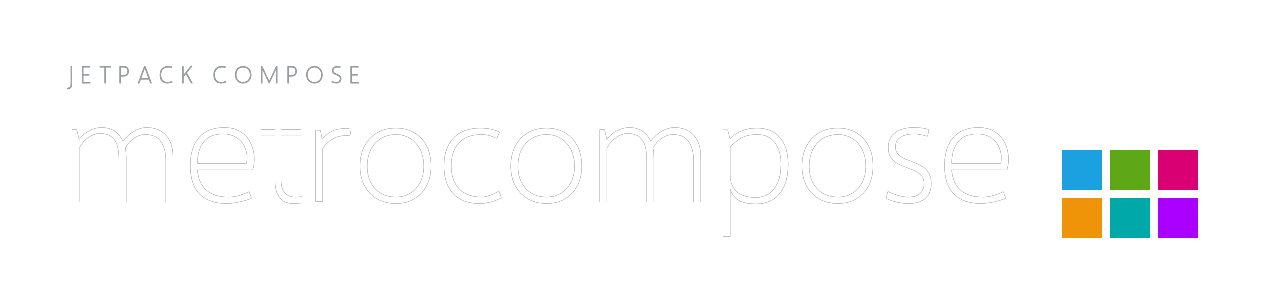
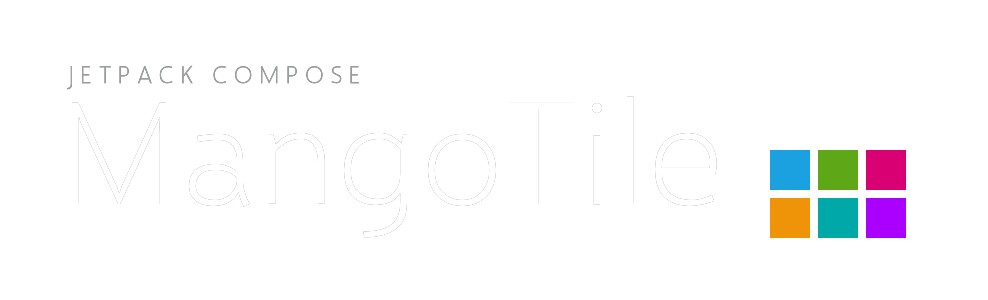
Rename the kit to MangoTile
MetroCompose collided with louis993546/Metro-Compose, a Jetpack Compose WP8
kit that has been going since 2021. The product, the repository and the
captions move; the artifact, the Kotlin package and the Metro* symbols stay.
"Metro" there is the design language's vocabulary rather than the brand —
MetroPanorama means a panorama in the Metro style — and the coordinates are
already on Central, where nothing can be withdrawn. README says so explicitly
so it reads as a decision.

Banners redrawn rather than replaced: the JETPACK COMPOSE overline and the
tile grid are copied pixel-for-pixel out of the originals and only the
wordmark is new, set in Selawik Light at 144pt with 3.45px of tracking on a
y=204 baseline, all three matched against the old ink box. The canvas narrows
1280 -> 988 because the shorter word would otherwise leave 346px of hole
before the tiles; every margin and the gap to the grid are unchanged.

Also drops the README's claim that nothing else on Android does this. It was
no longer true, and what the work actually is — the motion — says more.

diff --git a/README.md b/README.md
@@ -1,7 +1,7 @@
 <h1>
   <picture>
     <source media="(prefers-color-scheme: dark)" srcset="docs/banner-dark.png">
-    <img src="docs/banner-light.png" alt="MetroCompose" width="820">
+    <img src="docs/banner-light.png" alt="MangoTile" width="820">
   </picture>
 </h1>
 
@@ -12,14 +12,22 @@ the panorama, the pivot, the long list with its jump grid, the flat typography, 
 transitions that made WP8 feel like WP8 — so you can assemble a whole app in that style instead of
 rebuilding the look from scratch every time.
 
-WP8's design language still has people who miss it, but on Android nobody ported the *app-building*
-side of it. There are launchers that imitate the home screen and a few dead widget snippets, and no
-kit that hands you a `MetroPanorama { }` and gives you the parallax and the flowing title for free.
-That is the gap this fills.
+WP8's design language still has people who miss it, and what they miss is rarely the colours — it
+is the way the thing moved. That is where most of the work here went. The panorama has three real
+parallax layers: background, title and content each travel at their own speed as you drag, and
+letting go settles on a section boundary rather than wherever your finger stopped. Continuum
+carries a title out of a list row into the next page's big header, and flows it back on Back. The
+swap leaves a line **empty** for a beat before refilling it — not a cross-fade, because the empty
+beat is what makes it read as words being replaced rather than blurring into each other. The
+easings are measured off a Lumia doing it, not guessed at.
 
 [![Maven Central](https://img.shields.io/maven-central/v/io.github.diffechento/metro?label=Maven%20Central)](https://central.sonatype.com/artifact/io.github.diffechento/metro)
 
 `io.github.diffechento:metro:1.0.0` · minSdk 26 · compileSdk 36 · MIT
+
+MangoTile is the kit; `Metro` is the vocabulary of the design language it implements. So the
+artifact, the package and every symbol keep that name — `MetroPanorama` means *a panorama in the
+Metro style*, and renaming it to match the brand would say less, not more.
 
 | Start | now playing | panorama ∞ |
 |:---:|:---:|:---:|
@@ -117,5 +125,5 @@ be called Selawik. The full text is in
 [THIRD-PARTY-NOTICES.md](THIRD-PARTY-NOTICES.md) has the details along with the dependencies.
 
 
-MetroCompose is not affiliated with Microsoft. "Windows Phone", "Metro" and "Segoe" are
+MangoTile is not affiliated with Microsoft. "Windows Phone", "Metro" and "Segoe" are
 Microsoft's; this is an homage to a design language, built from scratch.

diff --git a/THIRD-PARTY-NOTICES.md b/THIRD-PARTY-NOTICES.md
@@ -1,13 +1,13 @@
 # Third-party notices
 
-MetroCompose itself is under the MIT licence — see [LICENSE](LICENSE). The material below belongs
+MangoTile itself is under the MIT licence — see [LICENSE](LICENSE). The material below belongs
 to other people and keeps its own terms.
 
 ## Bundled fonts — Selawik
 
 This library bundles the Selawik typeface in three weights, as
 `metro/src/main/res/font/selawik_light.ttf`, `selawik_semilight.ttf` and `selawik_regular.ttf`.
-Anything built on MetroCompose therefore ships these fonts too.
+Anything built on MangoTile therefore ships these fonts too.
 
 > Copyright 2015, Microsoft Corporation (www.microsoft.com), with Reserved Font Name Selawik.
 > All Rights Reserved. Selawik is a trademark of Microsoft Corporation in the United States
@@ -40,5 +40,5 @@ so an MIT library over an Apache-2.0 stack is unremarkable.
 
 ## Trademarks
 
-MetroCompose is not affiliated with Microsoft. "Windows Phone", "Metro" and "Segoe" are
+MangoTile is not affiliated with Microsoft. "Windows Phone", "Metro" and "Segoe" are
 Microsoft's. This project is an homage to a design language, written from scratch.

diff --git a/COMPONENTS.md b/COMPONENTS.md
@@ -1,4 +1,4 @@
-# MetroCompose components
+# MangoTile components
 
 Everything the library gives you, grouped by what it is for. `io.github.diffechento:metro:1.0.0`; see
 the [README](README.md) for installing it and running the sample.
